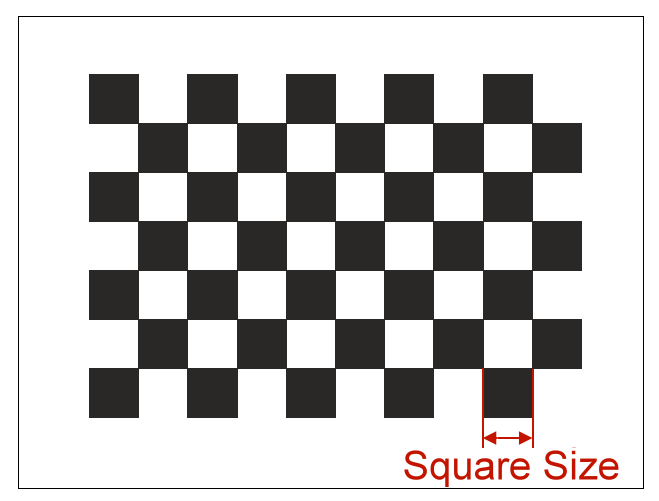
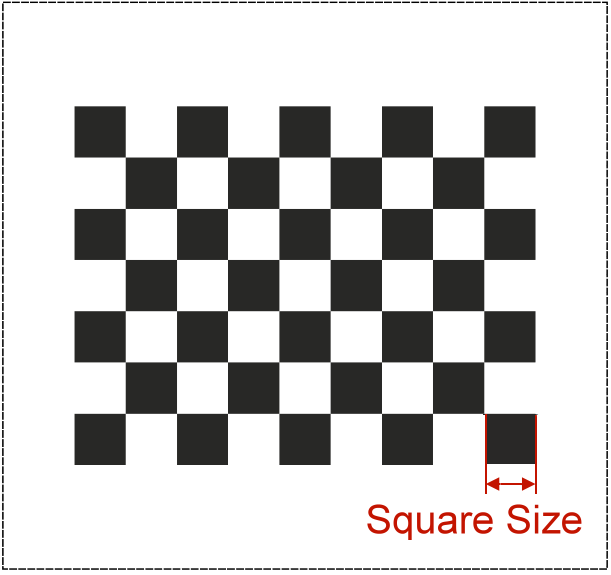
Update of the Calibration Sheet Fotos
Update of the Calibration Sheet Fotos

Changed region(s): [[0.0, 0.0, 0.9951, 1.0]]

diff --git a/docs/software.md b/docs/software.md
@@ -172,9 +172,9 @@ FabScan Pi is tested on:
 
 - By default the FabScanPi server binds to all interfaces on port 8080. Pointing your browser to http://ip-of-your-raspberry-pi:8080 will open the user interface. 
 
-  If your FabScanPi has access to the internet an information window with the latest project news will pop-up. You can close it by left-clicking on the black x in the upper right corner of the grey info window.
+  If your FabScanPi has access to the internet an information window with the latest project news will pop-up. You can close it by left-clicking on the black x in the upper right corner of the grey info window. If there is a new software version available you will see a note in the upper left corner:
 
-  ![main_menu](images/Manual_0.jpg)
+  ![main_menu](images/Manual_UpdateAvailable_1.jpg)
 
 
 
@@ -217,13 +217,17 @@ You can find all details in the chapter "[How to Edit the Config File](#editConf
 
 Place the calibration sheet on the turntable facing the camera.
 
-IMPORTANT: Make sure that in the upper left corner is a black square as you can see on the picture below. If the sheet is placed wrong the calibration will generate incorrect values or may fail.
-
-![main_menu](images/calibration_sheet_position.jpg)
+![main_menu](images/calibration_start_position.jpg)
 
 
 
 Please close the box to avoid external light sources to impact the calibration process. Start  your browser and call http://ip-of-your-raspberry-pi:8080 which will open the user interface. 
+
+
+
+When you start your FabScanPi for the first time you will see an information in the upper left corner that you have to perform a calibration.
+
+![main_menu](images/Manual_NoCalibration_1.jpg)
 
 
 
@@ -534,6 +538,8 @@ This section describes the laser stepper motor values. The rotation_steps value 
 
 In this section you can change the parameters of the configuration sheet. If your printout of the calibration sheet has not the exact scale you can adjust the parameters here instead of scaling the print. 
 
+NOTE: There is a new " 8x6 Calibration Pattern". If you are still using the old 9x6 Pattern you'll need to modify the columns value:
+
 
 
 "scanner_type": "laserscanner",
@@ -545,8 +551,8 @@ In this section you can change the parameters of the configuration sheet. If you
 "pattern": {
     "square_size": 11,
     "rows": 6,
-    "columns": 9,
-    "origin_distance": 29
+    "columns": 8,
+    "origin_distance": 35
 }
 ```
 
@@ -557,7 +563,7 @@ In this section you can change the parameters of the configuration sheet. If you
 
 
 
-- Rows and Columns are the connection points of the black squares. The correct number is 9 for columns and 6 for rows :
+- Rows and Columns are the connection points of the black squares. The correct number is 8 for columns and 6 for rows :
 
 ![PuTTY_Menu](images/calibration_sheet_info_1.png)
 
